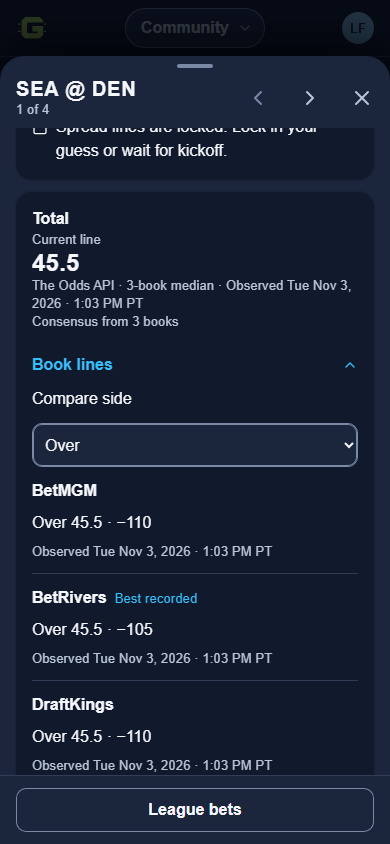
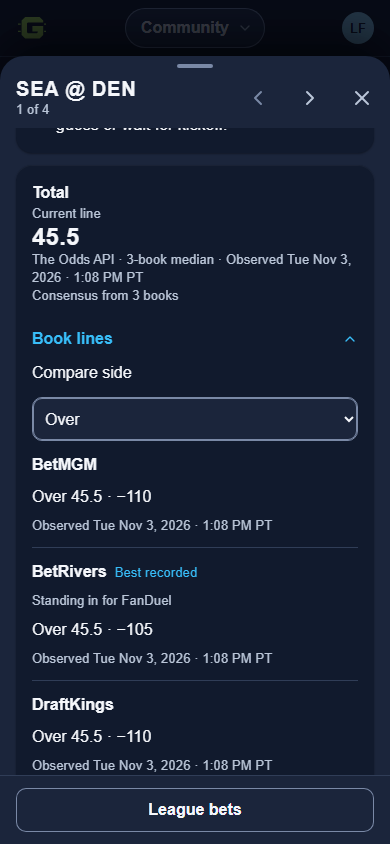
D-74 draft: "Standing in for FanDuel" under BetRivers in the game book lines
Sean, November 3, 2026: "Add the label". M-39's gtl_book_quotes_from_snapshot adds
standInFor for a BetRivers quote from the snapshot's standIns (only for a selected book
that has no quote of its own); /lines/game passes it through by name; the game sheet
shows it under BetRivers. Mockups regenerated from the real app at 390 in both themes.
Draft only; nothing released.

Changed region(s): [[0.0615, 0.2156, 0.9231, 0.7393], [0.5846, 0.2773, 0.8923, 0.3697], [0.1231, 0.154, 0.5846, 0.1848]]

diff --git a/tests/cloud-browser/next-lines.spec.js b/tests/cloud-browser/next-lines.spec.js
@@ -1166,7 +1166,7 @@ test('game market details preserve saved references, gate quotes and show record
 // D-74 proposal (November 3, 2026, a draft; needs M-39): FanDuel missing from the reply and BetRivers standing in. The
 // game's book lines name BetRivers, the line still says three books, and the phone rules and axe hold in both themes.
 // The screenshots are the mockups Sean reviews before any release.
-test('D-74 draft: a BetRivers stand-in shows by name in the game book lines, with three books and FanDuel absent', async ({ page, baseURL }, testInfo) => {
+test('D-74 draft: a BetRivers stand-in shows by name and says "Standing in for FanDuel" in the game book lines, with three books', async ({ page, baseURL }, testInfo) => {
   const { world } = await lukesWeek(page, baseURL);
   try {
     await storeBookLines(world, { ...LINES, total: { ...LINES.total, 'SEA-DEN': 45.5 } }, { capturedAt: Date.now() - 1000, standIn: true });
@@ -1180,7 +1180,10 @@ test('D-74 draft: a BetRivers stand-in shows by name in the game book lines, wit
     const books = total.locator('.gx-md-books');
     await expect(books.getByRole('listitem')).toHaveCount(3);
     await expect(books).toContainText('DraftKings'); await expect(books).toContainText('BetMGM'); await expect(books).toContainText('BetRivers');
-    await expect(books).not.toContainText('FanDuel');
+    // Sean, November 3: "Add the label". Only BetRivers says what it stands in for; FanDuel has no row of its own.
+    await expect(books.getByRole('listitem').filter({ hasText: 'BetRivers' })).toContainText('Standing in for FanDuel');
+    await expect(books.getByText('Standing in for', { exact: false })).toHaveCount(1);
+    await expect(books.getByRole('listitem').filter({ hasText: 'FanDuel' })).toHaveCount(1);
     for (const theme of ['dark', 'light']) {
       await page.evaluate(theme => document.documentElement.dataset.theme = theme, theme);
       await page.setViewportSize({ width: 390, height: 844 });

diff --git a/web/src/next/lines/MarketDetails.jsx b/web/src/next/lines/MarketDetails.jsx
@@ -72,7 +72,7 @@ export function MarketPanel({ game, market, cell, now }) {
     <details className="gx-md-disclosure"><summary><span>Book lines</span><Icon icon="chevronDown" size={16}/></summary>
       {!books.length ? <p className="gx-t-body">No book quotes available.</p> : <div className="gx-vstack gx-gap-12">
         <label className="gx-t-body" htmlFor={sideId}>Compare side</label><select id={sideId} className="gx-md-select gx-t-body" value={side} onChange={event => setSide(event.target.value)}>{(market === 'spread' ? [['home', game.homeCode], ['away', game.awayCode]] : [['over', 'Over'], ['under', 'Under']]).map(([value, name]) => <option key={value} value={value}>{name}</option>)}</select>
-        <ul className="gx-md-books">{books.map(book => <li key={book.book} className="gx-vstack gx-gap-8"><div><strong className="gx-t-strong">{book.source}</strong>{best === book.book ? <span className="gx-md-best gx-t-meta">Best recorded</span> : null}</div><p className="gx-t-body">{fmtSide(game.awayCode, game.homeCode, side, book.line)} · {fmtOdds(book.prices?.[side])}</p><p className="gx-t-meta">Observed {marketTime(book.observedAt)}</p></li>)}</ul>
+        <ul className="gx-md-books">{books.map(book => <li key={book.book} className="gx-vstack gx-gap-8"><div><strong className="gx-t-strong">{book.source}</strong>{best === book.book ? <span className="gx-md-best gx-t-meta">Best recorded</span> : null}</div>{book.standInFor ? <p className="gx-t-meta">Standing in for {book.standInFor}</p> : null}<p className="gx-t-body">{fmtSide(game.awayCode, game.homeCode, side, book.line)} · {fmtOdds(book.prices?.[side])}</p><p className="gx-t-meta">Observed {marketTime(book.observedAt)}</p></li>)}</ul>
       </div>}
     </details>
     <details className="gx-md-disclosure"><summary><span>Line movement</span><Icon icon="chevronDown" size={16}/></summary><MarketMovement rows={cell.movement ?? []} game={game} market={market}/></details>

diff --git a/docs/PROPOSAL_2026_11_03_BACKUP_BOOK.md b/docs/PROPOSAL_2026_11_03_BACKUP_BOOK.md
@@ -31,7 +31,9 @@ occasionally, so the gap may close by itself; the November 4 06:15 UTC run will 
     unchanged: observation windows, the five-point spread around the median, the median itself.
   - With three distinct books out of four, at least two are always selected ones.
 - **Shown:**
-  - Book-level prices (`gtl_book_quotes_from_snapshot`, the Lines sheet) name BetRivers.
+  - Book-level prices (`gtl_book_quotes_from_snapshot`, the Lines sheet) name BetRivers. Under it, the game sheet says
+    "Standing in for FanDuel" (Sean, November 3: "Add the label"; `standInFor`).
+  - Phone mockups from the real app: [design/backup-book-2026-11-03](../design/backup-book-2026-11-03/README.md).
   - The revealed sources table lists the missing book as missing ("BetRivers stood in.") and BetRivers as included ("Stood
     in for FanDuel.").
   - The app already lists a book that is not required as "Not a required book".
@@ -47,8 +49,8 @@ occasionally, so the gap may close by itself; the November 4 06:15 UTC run will 
 1. **Rule:** may a backup book stand in for a missing one? That is D-74 itself.
 2. **Which backup:** BetRivers is the one free US book already allowed in the adapter. Caesars (`williamhill_us`) and
    Fanatics are listed by the provider but not allowed by the adapter, and Caesars is marked unavailable on the current plan.
-3. **Mockups:** BetRivers rows appear in the Lines sheet and the sources table. Sean's standing rule is phone mockups of
-   every visible change before release.
+3. **Mockups:** phone mockups of the Lines sheet are in `design/backup-book-2026-11-03/`, with the label Sean asked for.
+   They wait for his OK, like every visible change.
 
 ## Not verified (needs a real collection)
 

diff --git a/design/backup-book-2026-11-03/README.md b/design/backup-book-2026-11-03/README.md
@@ -18,12 +18,11 @@ not live quotes. The test blocks web fonts, so the text uses a fallback system f
 
 - **The book list:** it shows BetMGM, BetRivers and DraftKings instead of BetMGM, DraftKings and FanDuel, only while
   BetRivers stands in.
+- **The label:** under BetRivers, a "Standing in for FanDuel" line says which book it replaced (Sean, November 3: "Add
+  the label"). No other book carries it, and FanDuel has no row of its own.
 - **Unchanged:** the line reads "The Odds API · 3-book median" and "Consensus from 3 books", as today. Nothing else on the
   sheet changes.
 - **"Best recorded":** it can land on BetRivers when its price is best, here −105 against −110.
 
-## Open choice
-
-Nothing says BetRivers is standing in for FanDuel. A small "Standing in for FanDuel" line under BetRivers is possible. It
-would need `gtl_book_quotes_from_snapshot` (M-39) to pass the stand-in through, plus the book row to show it. Not built
-unless Sean asks.
+The label comes from the snapshot's `standIns`, through M-39's `gtl_book_quotes_from_snapshot` (`standInFor`) and the
+`/lines/game` projection.

diff --git a/docs/DECISIONS.md b/docs/DECISIONS.md
@@ -12,7 +12,8 @@ no new line can be made while FanDuel is missing.
   - BetRivers can stand in for one selected book (DraftKings, FanDuel or BetMGM) that the provider's reply could not
     quote. This is game by game and market by market, with the same checks as the other books.
   - It never replaces a book that was quoted. BetRivers is asked for in the same request, at no extra credits.
-- **Shown:** where BetRivers stood in, the missing book stays listed as missing and BetRivers is named.
+- **Shown:** BetRivers is named wherever it stood in. In the game sheet it says "Standing in for FanDuel" (Sean: "Add
+  the label"), and the revealed sources table lists the missing book as missing.
 - **Unchanged:**
   - lines already saved (D-16, D-23);
   - Challenge selections, Virtual Units and the frozen spread benchmark;
